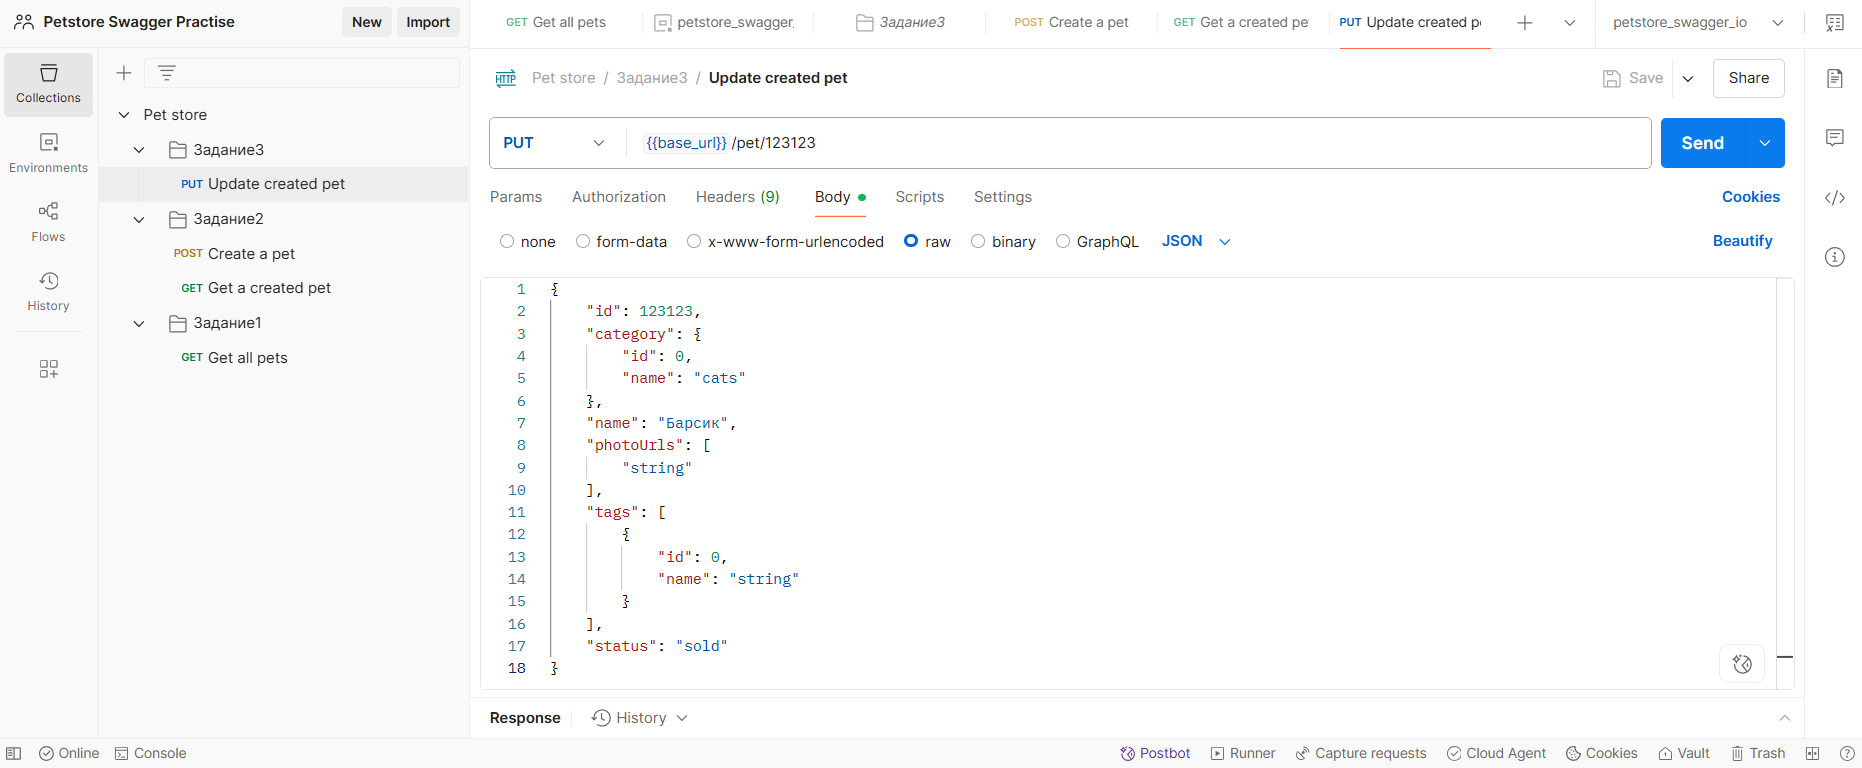
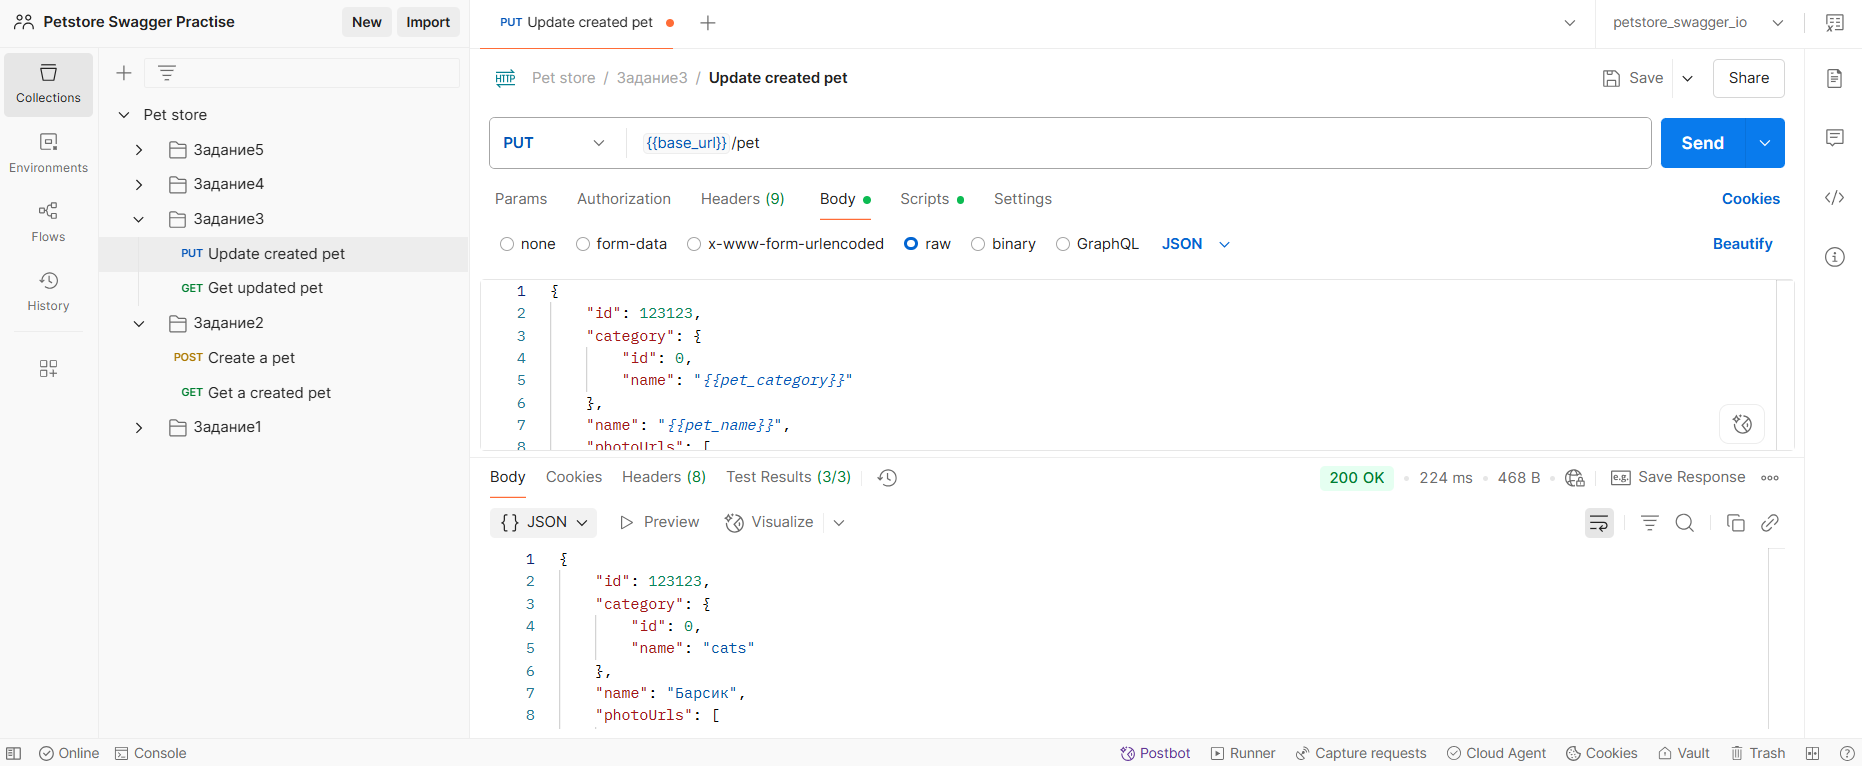
Complete task 5 and corrected task 3 (PUT)

diff --git a/README.md b/README.md
@@ -86,21 +86,21 @@ Environment -> New -> Environment -> `petstore_swagger_io`
     "status": "sold"
 }
 ```
-
 ![Задание 3](images/Задание3.png)
 ![Задание 3 (GET)](images/Задание3(GET).png)
 
 ### Задание №4:
 Удалите созданного питомца («Барсик») с помощью `DELETE`-запроса. Затем убедитесь, что питомец действительно удалён из системы, выполнив `GET`-запрос.
 
-![alt text](images/Задание4.png)
-![alt text](images/Задание4(GET).png)
+![Задание 4](images/Задание4.png)
+![Задание 4 (GET)](images/Задание4(GET).png)
 
 ### Задание №5:
 Напишите набор автоматизированных тестов для проверки основных операций CRUD над питомцами: создание, чтение, обновление и удаление. Каждое действие должно проверяться отдельным тестовым сценарием.
 
+***[Задание 2]***
 
-***[Задание 1]***
+#### Get a created pet
 
 Post-response 
 ```
@@ -117,9 +117,9 @@ pm.test("Ответ содержит данные о питомце", function()
 });
 ```
 
-***[Задание 2]***
+#### Create a pet
 
-![alt text](images/Задание5(Задание2).png)
+![Задание 5 (Задание 2)](images/Задание5(Задание2).png)
 
 Переменные в collection (Pet store):
 |||
@@ -175,5 +175,59 @@ pm.test("Ответ содержит данные о питомце", function()
     pm.expect(jsonData.name).to.equal("Рыжик");
     pm.expect(jsonData.category.name).to.equal("cats");
     pm.expect(jsonData.status).to.equal("available");
+});
+```
+
+***[Задание 3]***
+
+![Задание 5 (Задание 3)](images/Задание5(Задание3).png)
+
+Pre-request:
+```
+pm.collectionVariables.set("pet_name", "Барсик");
+pm.collectionVariables.set("pet_status", "sold");
+
+pm.test("Установлены данные о питомце", function(){
+    pm.expect(pm.collectionVariables.get("pet_name")).to.equal("Барсик");
+    pm.expect(pm.collectionVariables.get("pet_status")).to.equal("sold");
+});
+```
+
+Post-response:
+```
+pm.test("Status code is 200", function () {
+    pm.response.to.have.status(200);
+});
+
+pm.test("Данные о питомце обновлены", function () {
+    var jsonData = pm.response.json();
+    pm.expect(jsonData.name).to.eql(pm.collectionVariables.get("pet_name"));
+    pm.expect(jsonData.status).to.eql(pm.collectionVariables.get("pet_status"));
+});
+```
+
+***[Задание 4]***
+
+![Задание 5 (Задание 4)](images/Задание5(Задание4).png)
+![Задание 5 (Задание 4)](images/Задание5(Задание4).png)
+
+Post-response:
+```
+pm.test("Проверка статус-кода (элемент удален или не найден)", function () {
+    const responseText = pm.response.text();
+    if(responseText && responseText.trim().length>0){
+        let jsonData;
+        try{
+            jsonData = pm.response.json();
+            pm.expect(jsonData).to.be.an("object");
+            pm.expect(jsonData).to.have.any.keys("error", "message");
+        }
+        catch(e){
+            pm.expect.fail(`Ответ невалидный JSON / Неправильный запрос`);
+        }
+    }
+    else{
+        pm.expect(responseText).to.be.empty;
+    }
 });
 ```
